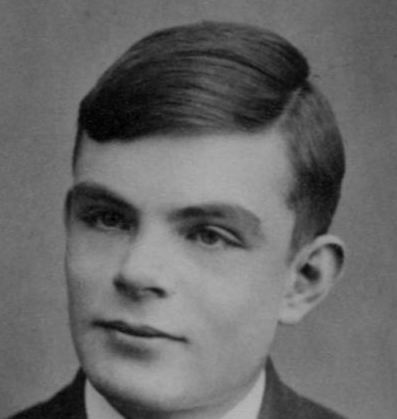
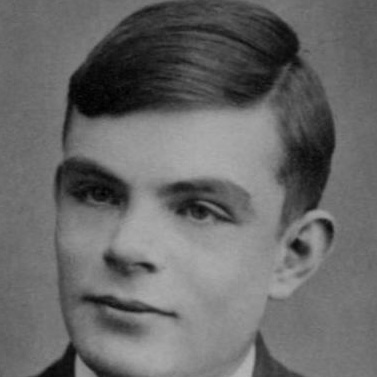
Fixed Turing

diff --git a/turing.html b/turing.html
@@ -82,7 +82,7 @@
             <h3 class="header black-text">Alan Turing</h3>
             <div id="img-container" class="row center">
               <!--Changed .JPG to .jpg  -->
-              <img class="materialboxed valign center img-responsive z-depth-2" src="images/Alan_Turing_Aged_16.jpg" alt="Alan Turing" id="alan-img" />
+              <img class="materialboxed circle center img-responsive z-depth-2" src="images/Alan_Turing_Aged_16.jpg" alt="Alan Turing" id="alan-img" />
             </div>
             <p class="divider"></p>
             <div id="audio-container" class="container">
